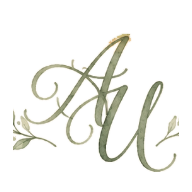
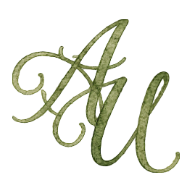
Take the brand from the new painted monogram
Two clean watercolour AU monograms arrived with fully transparent
backgrounds, replacing the older, busier logo files.

The nav brand stops being the script set as live type and becomes the
leafy monogram itself — this is the one place on the site where the
letterform can be the artwork rather than an imitation of it. Sized at
2.75rem, which is exactly the menu button's height, so the bar measures
the same 71px on a phone (where the button sets the height) as on a
desktop (where the monogram does). --nav-h was claiming 4.25rem against
a real 59px desktop / 71px phone; it now states 4.45rem and is true.

Below 2.7rem the leaf sprays collapse into specks and the mark reads
smaller than the type it replaced, which is why it is not smaller.

The icon set is redrawn from the plain monogram — near square at 1.09:1,
so the letters get the whole frame instead of a crop of a wider
composition. Watercolour is pale by nature and 16px is unforgiving, so
favicon.ico's three payloads and icon-32 carry a graded darkening
(x0.62 at 16 up to x1.0 by 192) with a small alpha gain to keep the
thin strokes alive through the downsample. Everything from 96px up is
the painting untouched.

Changed region(s): [[0.0625, 0.0938, 0.9375, 0.9062], [0.8125, 0.5938, 0.9375, 0.7812]]

diff --git a/src/index.css b/src/index.css
@@ -52,8 +52,10 @@
   --palette-forest: #2c683c;
   --palette-carnival: #d94e78;
   --palette-sunset: #d86a22;
-  /* Height of the fixed SiteNav, used to clear content on inner pages. */
-  --nav-h: 4.25rem;
+  /* Height of the fixed SiteNav, used to clear content on inner pages. Measured,
+     not guessed: 2.75rem of brand or menu button plus 0.85rem of padding either
+     side. Desktop and phone now agree. */
+  --nav-h: 4.45rem;
   /* Content column width. Lives on :root (not just .home) so the shared SiteNav
      gutters resolve on every page, including /wardrobe which has no .home wrapper. */
   --max: 1080px;
@@ -862,12 +864,19 @@ a.poi:focus-visible .poi-pin {
   box-shadow: 0 0.4rem 1rem rgba(47, 42, 33, 0.08);
 }
 
+/* The brand is the painted monogram. At 2.75rem it matches the menu button's
+   height exactly, so the bar measures the same 71px on a phone (where the
+   button sets the height) as on a desktop (where the monogram does) — which is
+   what --nav-h is finally able to state truthfully. */
 .home-nav-brand {
-  color: var(--forest);
-  font-family: var(--font-script), cursive;
-  font-size: 2rem;
-  line-height: 1;
+  display: flex;
+  line-height: 0;
   text-decoration: none;
+}
+
+.home-nav-brand img {
+  height: 2.75rem;
+  width: auto;
 }
 
 .home-nav-links {

diff --git a/src/components/SiteNav.tsx b/src/components/SiteNav.tsx
@@ -102,7 +102,14 @@ export function SiteNav() {
       aria-label="Primary"
     >
       <a className="home-nav-brand" href="/#top">
-        A&nbsp;&amp;&nbsp;U
+        {/* The painted monogram rather than the script set as live type: this is
+            the one place the letterform can be the artwork itself. */}
+        <img
+          src="/art/au-monogram-leaves.webp"
+          alt="Abha &amp; Udit — home"
+          width={1000}
+          height={484}
+        />
       </a>
 
       <div
